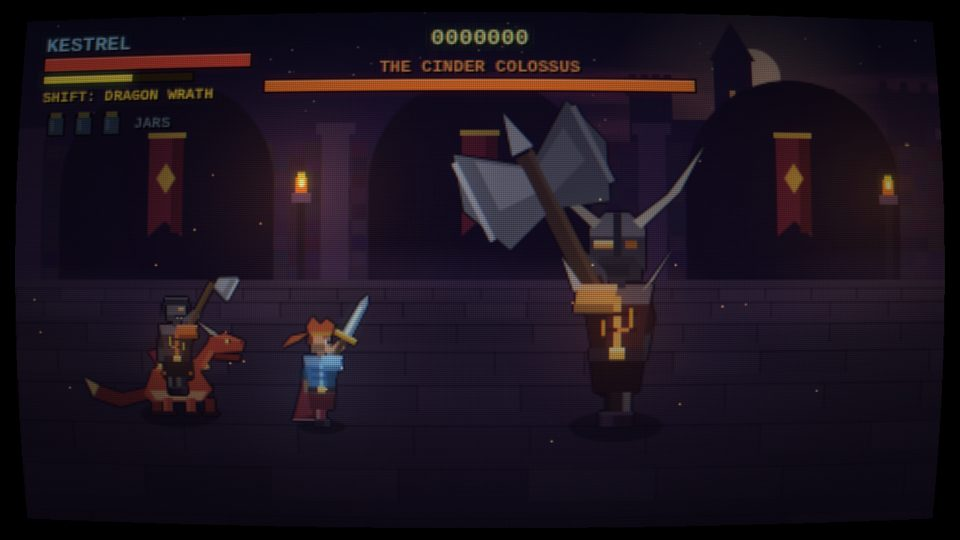
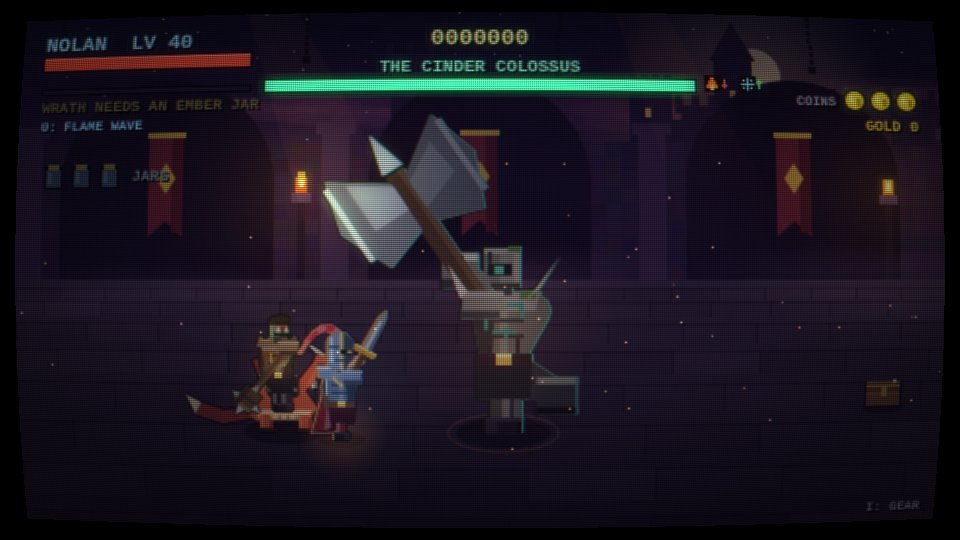
docs: README for the new art, the daily challenge and fair play; new boss and hero screenshots

diff --git a/README.md b/README.md
@@ -19,6 +19,11 @@ Press Enter (or 2 for co-op) and pick your hero. Each one keeps their own level 
 
 In co-op the second player picks a hero too and shares the first player's level and gear.
 
+Each hero reads at a glance, even at 40 pixels tall:
+- **Nolan** wears a closed steel helm with a gold stripe and a red plume that trails behind him, broad pauldrons, a gold crest and a red cloak.
+- **Panni** has a pointed purple hood, a flared robe with a gold hem, a staff with a glowing orb and runes drifting around her free hand.
+- **Luca** crouches under a deep green hood, a dark mask with glowing eyes and a long scarf that streams behind him, with a dagger in reverse grip at rest.
+
 ![Hero select](docs/screenshots/heroes.jpg)
 
 ## The story
@@ -49,12 +54,12 @@ Each boss arrives with a short letterboxed intro, has its own attack set and enr
 ## Features
 
 - **English and Hungarian (magyar):** pick the language on the title screen (click the box or press H) or in the pause menu. English is the default, and your choice is remembered. Translations live in `i18n.js`.
-- **Your gear shows on Nolan:** no armour means a leather tunic; each rarity changes the look of the helm (iron cap, visored helm, plumed gold helm, crown of flame), armour (steel, blue, gold with spikes, obsidian with ember cracks), boots, amulet gem and blade (rusty, steel, glowing blue, golden, flaming).
+- **Your gear shows on the hero:** each rarity changes the look of the helm or hood (iron, visored, gold, crown of flame), the armour (steel, blue, gold with spikes, obsidian with ember cracks), the boots, the amulet gem and the blade or staff (rusty, steel, glowing blue, golden, flaming). Set pieces glow set-green.
 - **New monsters in later acts:** frost archers (act II) shoot arrows you can jump over, blaze bombers (act III) run up and explode in a shockwave, and hollow knights (act IV) leap across the screen and crash down with a shockwave.
 - **Articulated bosses:** the Colossus swings a stone back-arm, the Matron reaches with ghostly arms and living hair, the Forgemaster works a tongs arm, and the Cinder King's wings flap on shoulder, elbow, wrist and finger bones.
 - **Casters that make you think:** the **Ash Warder** (from stage 2) hides inside an arcane barrier and is untouchable until you shatter it. Light hits barely crack it, heavy blows (third combo hit, jump attack, skills) break it fast, and a broken barrier knocks the warder down. Some foes (from stage 2) also arrive already wrapped in a barrier, so shatter it before you go for them. The **Flame Caller** (from stage 3) marks the ground under you with runes that explode and leave burning pools, so keep moving.
 - **Chasms and barricades:** from stage 1 the road is cut by chasms you must jump over and rubble barricades you have to vault. Falling in costs 60% of your health (and kills you if you are already hurt); knocking a monster into a chasm finishes it off.
-- **Sharper fights:** monsters move faster and attack more often, **elite** monsters (gold glow, more health and damage, extra loot) turn up from stage 3, and **ambushes** send fresh foes in from both sides when a wave is nearly beaten.
+- **Sharper fights:** monsters move faster and attack more often, **elite** monsters (a golden rim light, more health and damage, extra loot) turn up from stage 3, and **ambushes** send fresh foes in from both sides when a wave is nearly beaten. Once a foe has stepped onto the screen it stays on it: nothing can be shoved or walk off the edges (thieves and goblins can still escape).
 - **Tougher bosses:** more health and poise, quicker attacks, and they call in escorts when they enrage.
 - **Wyrmling mounts:** a rare enemy (at most one per wave) arrives on a small dragon. Knock the rider off, then press K next to the wyrmling to ride it and breathe fire with J.
 - **Dragon's Wrath (Shift):** a giant dragon head smashes the whole screen. Goblin pilferers carry **Ember Jars**: each jar you take adds +15% wrath damage, up to three jars (+45%).
@@ -63,7 +68,7 @@ Each boss arrives with a short letterboxed intro, has its own attack set and enr
 - **Gear sets:** Vowbound (crit), Bulwark (life and resist) and Emberheart (strength, element power, extra damage to afflicted foes). Wear 2 or 4 pieces for bonuses, and mix sets freely. Set pieces drop from item level 50 and are always better than a mythic of the same level; bosses drop them more often at level 70.
 - **Treasure chests, shrines and combos:** chests hide gold on the road. Now and then a **shrine** stands by the road (one is guaranteed every fourth stage); strike it for a random blessing the whole party shares (haste, fury, warding, wisdom, fortune or elemental surge), and a rare golden shrine grants a few seconds of invulnerability. Killing foes in quick succession builds a **kill combo** with bonus XP that breaks when you get hit.
 - **Bonus stage:** after the act bosses a Goblin Treasury opens: fast goblins, loot chests and ten seconds of raining gold, with time to gather the loot afterwards.
-- **Endgame:** after the final Ember Wyrm a grand finale awaits, and then **Ember Trials I to X** raise monster life and damage step by step, with better rewards and the extra forge levels. The **daily challenge** (a fresh level-1 hero, a rule of the day and its own leaderboard) stays separate from your real hero.
+- **Endgame:** after the final Ember Wyrm a grand finale awaits, and then **Ember Trials I to X** raise monster life and damage step by step, with better rewards and the extra forge levels. The **daily challenge** (press 3 on the title screen) is a fresh level-1 hero, a rule of the day and its own leaderboard, and it stays separate from your real hero. See below.
 - **Loot by stage:** five rarities: common (white), magic (blue), rare (yellow), legendary (orange) and mythic (crimson). Stage 1 drops only white items, stage 2 adds magic, stage 3 adds rare and legendary, and mythic appears from stage 4.
 - **The Blacksmith:** after the market at the end of every stage, forge all your gear up to **+7** for gold (**+8 to +10** unlock as you clear Ember Trials). Each level adds 10% to the item's stats and +2 to your main stat; from +4 a forge can fail and eat the gold. The forge level shows in the top left corner of every item.
 - **3 continue coins** per run, and you can buy more in the Ember Market (up to 9; each one past the third costs more). Unspent coins are worth 1,500 points each when you win.
@@ -84,8 +89,6 @@ Each boss arrives with a short letterboxed intro, has its own attack set and enr
 | ![Boss limbs](docs/screenshots/boss-limbs.jpg) | ![Casters and a chasm](docs/screenshots/casters-chasm.jpg) |
 | ![Shrines by the road](docs/screenshots/shrines.jpg) | ![A shrine blessing](docs/screenshots/shrine-blessing.jpg) |
 | ![Element tiers I to X](docs/screenshots/element-tiers.jpg) | ![Set gear glows green](docs/screenshots/set-gear-green.jpg) |
-| ![New hero art](docs/screenshots/art-heroes.jpg) | ![New monster art](docs/screenshots/art-monsters.jpg) |
-| ![New boss and wyrmling art](docs/screenshots/art-bosses.jpg) | |
 
 ## The campaign: seven acts, thirty-five stages
 The story runs through **35 stages in seven acts**, and Nolan (or Panni, or Luca) has to recover **seven Heart-Embers**. Each act ends with an Ember Wyrm; the old bosses return stronger (Colossus II up to Wyrm VII) in new places such as the Drowned Cathedral, the Withered Wilds, the Gilded Dunes, the Eclipse Gate and the World-Forge. Levelling is paced to the whole story: **level 70 arrives around stage 33** if you clear everything. After the last stage the Ashen Cycles keep going for as long as you like.
@@ -129,6 +132,34 @@ Wyrmlings come in three kinds, and a thrown-off rider can grab a loose one with 
 You can fire while jumping. Any hit throws you off, but the wyrmling waits for you. Get thrown a second time, or wear it out, and it bolts for good.
 
 ![Mounts](docs/screenshots/mounts.jpg)
+
+## A new look (v1.38)
+Every figure was redrawn from design boards. The principles: a strong silhouette, 3-4 tone colour ramps with cool shadows and warm lights, outlines in a dark shade of the figure's own colour instead of black, a thin **elemental rim light** on the back edge (the hero's fire, frost or lightning; gold for elites; a boss's own power) and secondary motion (breathing, a lagging plume, scarf and robe).
+
+| | |
+|---|---|
+| ![New hero art](docs/screenshots/art-heroes.jpg) | ![New monster art](docs/screenshots/art-monsters.jpg) |
+
+- **Foes by role:** the **Marauder** (the melee foe) is hunched and olive-skinned with a fur collar, tusks, red eyes and a spiked club it raises before a swing; the **Ash Warder** is a faceless blue hood inside a hexagonal barrier that cracks as it wears down; the **Flame Caller** wears a horned skull mask and its blast marker is a dashed ring; **wyrmlings** have belly scales, a spiked back, a gold-striped saddle and sparks drifting from the snout. Colour tells the type: earth tones for brawlers, cold blue for casters, the foe's own element for elementals.
+- **Bosses:** an obsidian **Cinder King** with flame wings, a **Colossus** with a tiny one-eyed head and turquoise runes, a pale **Mire Matron** with a thorn crown and ghostly clawed arms, a **Forgemaster** with goggles and a braided red beard. Each boss glows brighter before a big hit, an armour plate bursts off at half health, and its life bar takes the boss's own colour.
+
+![New boss and wyrmling art](docs/screenshots/art-bosses.jpg)
+
+## Daily challenge
+Press **3** on the title screen (or **T**, or tap the daily line), pick a hero and play five stages with a fresh level-1 hero, one continue coin and no gold. Your real hero and save are never touched. One of five rules applies each day, in a fixed rotation that repeats every five days and changes at your device's midnight:
+
+| Rule | Effect |
+|---|---|
+| **Gold Rush** | all gold is doubled |
+| **Glass Cannon** | you hit 50% harder and take 50% more damage |
+| **Iron Foes** | foes have 50% more life and pay 50% more XP and gold |
+| **Swift Foes** | every monster is 20% faster |
+| **Treasure Day** | twice the chests, more golden ones |
+
+Each day has its own leaderboard, stored in your browser (so your phone and your PC keep separate boards). Finishing gives +5,000 points.
+
+## Fair play
+The game runs entirely in your browser, so this is a deterrent, not a lock: its values can't be reached from the browser console, and saves carry a seal. A hand-edited save is set aside (kept under a `_bad` key) and the hero starts fresh. For testing, the developer can open the game with `?max` (and `&stage=N`) on a local file or localhost for a maxed hero; nothing is saved in that mode.
 
 ## Support the game
 If you enjoyed Emberfall, donations are very welcome and go towards its further development: **[paypal.me/cooldance84](https://www.paypal.com/paypalme/cooldance84)**. The game also shows a clickable donate button on the title and end screens (or press D there).
